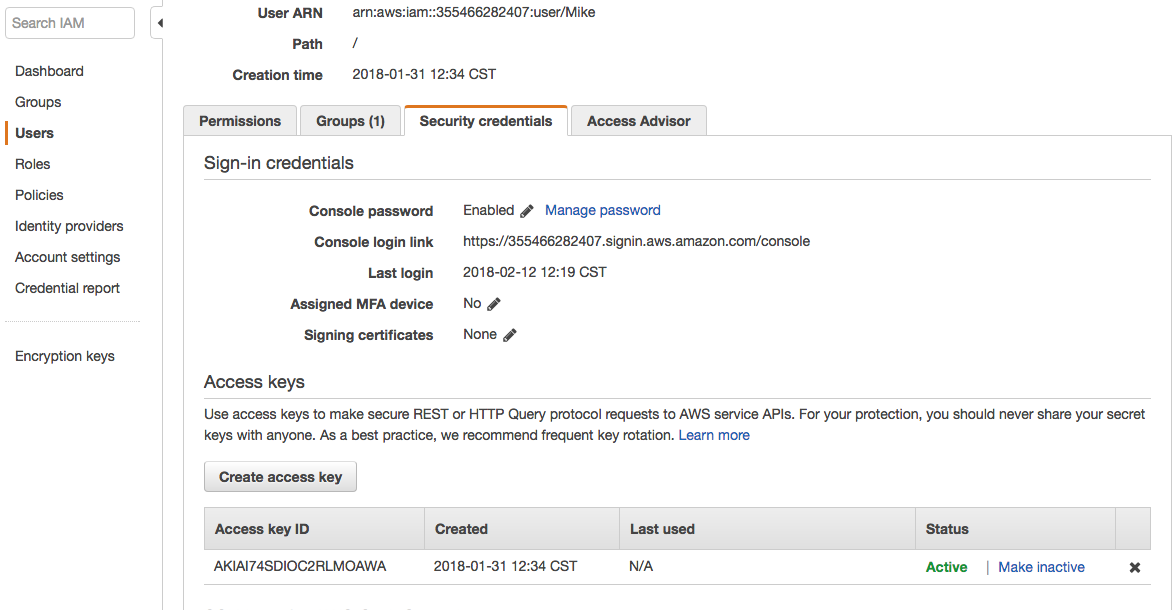
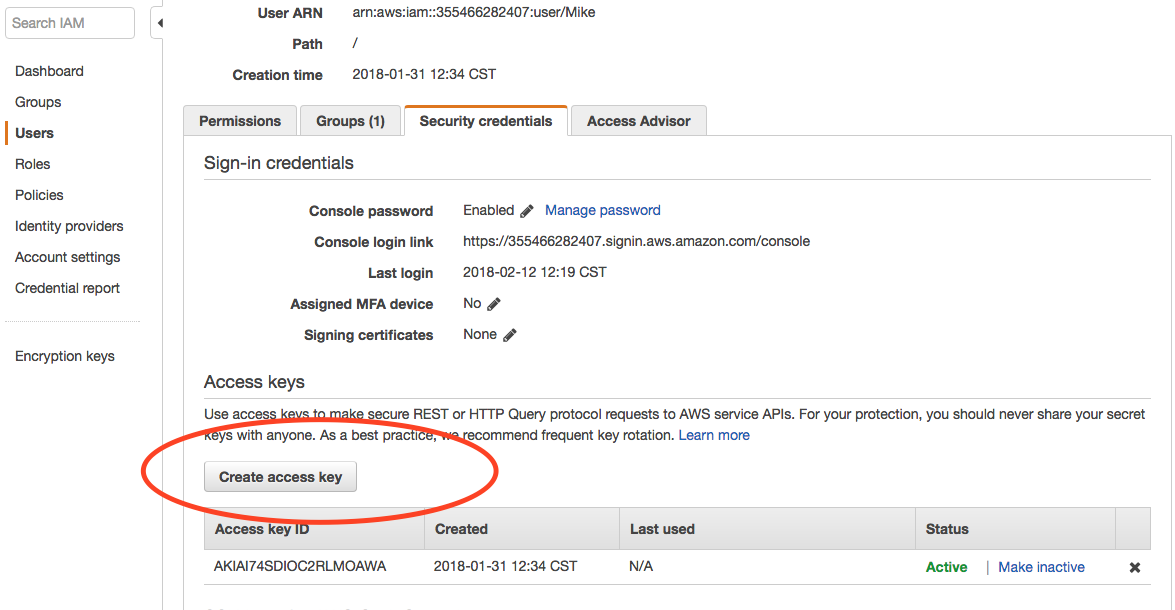
talks for week5-day3

diff --git a/studios/AWS3/README.md b/studios/AWS3/README.md
@@ -1,0 +1,347 @@
+---
+title: "Scaling horizontally AutoScaling Group"
+---
+
+The ability to scale horizontally is very important in building Cloud Native applications.  In this studio, you will be extending your [Airwaze App](https://gitlab.com/LaunchCodeTraining/airwaze-studio) to scale horizontally as traffic on the server increases.
+
+## Setup
+
+FIRST, change your project to run on port 80.  Add this line to your `applications.properties` file:
+```
+server.port=80
+```
+
+<aside class="aside-note">
+  Note!  You will be working in the "Northern Virginia region.
+</aside>
+
+We will be using the AWS CLI tool for some parts of the studio.  The AWS CLI tool allows you to create and change infrastructure on the cloud via the command line.  
+
+To install the AWS CLI tool run the following commands:
+```
+$ brew install awscli
+$ echo 'complete -C aws_completer aws' >> ~/.bashrc
+$ aws --version
+```
+
+Next configure the AWS CLI tool with your credentials.  These credentials can be found in IAM > Users > You. Click "Create Access Key".
+![Screenshot of IAM credentails](../../materials/week05/day3/iam_get_credentials.png)
+
+<aside class="aside-note">
+  It is very important that you keep the `AWS Secret Access Key` private.  Access to that key allows anyone to programmatically spin up infrastructure on the AWS account. 
+</aside>
+
+Next configure your the AWS CLI tool.  Use the "Default region name" or `us-east-1`:
+```
+$ aws configure
+AWS Access Key ID [None]: AK-------------------
+AWS Secret Access Key [None]: r4------------------
+Default region name [None]: us-east-2
+Default output format [None]: 
+```
+
+You should now be able to run commands against AWS.  For example, you should now be able to list all of the buckets in S3:
+```
+$ aws s3 ls
+```
+
+Take a look around by looking at the help pages for a couple of commands:
+```
+$ aws help
+$ aws s3 help
+$ aws s3 sync help
+```  
+
+The `aws help` command is a quick alternative to looking up information about the tool on line.
+
+### Configure your VPC
+
+You are going to use Amazon CloudFormation to spin up your VPC.  CloudFormation can create infrastructure on AWS based on a JSON template.  CloudFormation allows you to create consistent, reproducible AWS environments.
+
+You'll be using a CloudFormation template that adds 1 database, 4 subnets, 3 security groups, and 1 database.  AWS CloudFormation will pull the template from S3.  Feel free to take a look at the template by downloading it with the `aws-cli` tool:
+```
+aws s3 sync s3://launchcode-gisdevops-cloudformation 
+```
+
+To run CloudFormation, navigate to the CloudFormation page via the search bar.  Click "Create Stack".
+
+![Screenshot of CloudFormation page](../../materials/week05/day3/stack_screen.png)
+
+Now we tell CloudFormation what JSON template to use when building the infrastructure.  We're going to give it the URL of the JSON template that we looked at with the `aws s3 sync ...` command.
+
+* Choose "Specify an Amazon S3 template URL" and paste in https://s3.amazonaws.com/launchcode-gisdevops-cloudformation/airwaze_cloudformation.json. 
+* Click "Next" when you are done. 
+
+![Screenshot of CF Screen 1](../../materials/week05/day3/stack_screen_1.png)
+
+Next we need to give your stack a name and pass along a few parameters to customize the VPC.
+
+* Fill in Stack Name with "airwaze-{your name}".
+* Fill in DatabasePassword with "verysecurepassword".
+* Fill in KeyName with with the name of your access key.  Since you are in a new Region, you will need to create a new KeyPair.  Follow the [instructions from the AWS Studio](https://education.launchcode.org/gis-devops/studios/AWS/#setting-up-a-keypair)
+
+![Screenshot of Stack parameters](../../materials/week05/day3/stack_parameters.png)
+
+* Click Next on the "Options Screen"
+* Click Create on the "Review Screen"
+
+It will take CloudFormations about 15 minutes to spin up your VPC.  The "Events" tab will give you continuous updates on the progress of the job.
+
+### Configure Buckets
+
+Since you will be scaling machines horizontally, you won't be able to `scp` a jar to each machine.  Instead, the machines will reach out and grab a copy of the jar when they spin up.  The servers will download a copy of the application from S3.
+
+First create a new bucket in S3.  Remember **EVERY** bucket in S3 in the whole wide world has to be unique.  Use the pattern below to get a unique name.
+
+```
+$ aws s3 mb s3://launchcode-gisdevops-c1-yourname/
+```
+
+Run `aws s3 ls` to make sure that the bucket was created properly.
+
+Go ahead and build a new executable jar file using the Gradle `bootRepackage` command.  When it is finished building rename the file to `app.jar` and upload the jar to S3 using the following command:
+
+```
+$ aws s3 cp build/libs/app.jar s3://launchcode-gisdevops-c1-yourname/ 
+$ aws s3 ls s3://launchcode-gisdevops-c1-yourname/ # check to make sure it uploaded
+```
+
+When we run our initialization script later, the script will pull down the `app.jar` file with this command:
+```
+$ aws s3 sync s3://launchcode-gisdevops-c1-yourname/ /opt/airwaze
+```
+
+You should also check out S3 in the console:
+https://s3.console.aws.amazon.com/s3/home?region=us-east-1
+
+
+### Configure the database
+
+You'll also need to do some initial database setup.
+
+Create an instance in the `SubnetWebAppPublic` subnet.  Once it is up, SSH into the server and run the following commands:
+
+```
+$ sudo apt-get update
+$ sudo apt-get install postgresql
+$ psql -h airwaze-example.cew68jaqkoek.us-east-1.rds.amazonaws.com -p 5432 -U masterUser airwaze
+CREATE USER airwaze_user WITH PASSWORD 'verysecurepassword';
+CREATE EXTENSION postgis;
+CREATE EXTENSION postgis_topology;
+CREATE EXTENSION fuzzystrmatch;
+CREATE EXTENSION postgis_tiger_geocoder;
+CREATE TABLE airport
+(
+id serial primary key,
+airport_id integer,
+airport_lat_long geometry,
+altitude integer,
+city character varying(255),
+country character varying(255),
+faa_code character varying(255),
+icao character varying(255),
+name character varying(255),
+time_zone character varying(255)
+);
+CREATE TABLE route
+(
+id serial primary key,
+airline character varying(255),
+airline_id integer,
+dst character varying(255),
+dst_id integer,
+route_geom geometry,
+src character varying(255),
+src_id integer
+);
+ALTER TABLE airport OWNER to airwaze_user;
+ALTER TABLE route OWNER to airwaze_user;
+```
+
+Also, send up the `routes.csv` file and the `Airports.csv` file and get those in the database. 
+```
+$ scp -i ~/.ssh/mikes-keys.pem routes.csv  ubuntu@35.170.78.180:/home/ubuntu
+$ scp -i ~/.ssh/mikes-keys.pem Airports.csv  ubuntu@35.170.78.180:/home/ubuntu
+$ psql -h airwaze-example.cew68jaqkoek.us-east-1.rds.amazonaws.com -d airwaze -U airwaze_user -c "\copy route(src, src_id, dst, dst_id, airline, route_geom) from STDIN DELIMITER ',' CSV HEADER" < /home/ubuntu/routes.csv
+$ psql -h airwaze-example.cew68jaqkoek.us-east-1.rds.amazonaws.com -d airwaze -U airwaze_user -c "\copy airport(airport_id, name, city, country, faa_code, icao, altitude, time_zone, airport_lat_long) from STDIN DELIMITER ',' CSV HEADER" < /home/ubuntu/Airports.csv
+```
+
+## Create the Launch Configuration
+
+You now have all of the pieces set up to begin Auto Scaling EC2 machines.
+
+Navigate to [AutoScaling Page](https://console.aws.amazon.com/ec2/autoscaling/home) on the sidebar of EC2.  Click "Create Auto Scaling Group".
+
+![Screenshot of AutoScale Start](../../materials/week05/day3/create_auto_scaling_group.png) 
+
+A LaunchConfiguration is essentially creating a template for all of the EC2 instances that will be spun up automatically via Auto Scale.
+
+* You are going to create a new Launch Configuration.
+
+![Screenshot of AutoScale Step 1](../../materials/week05/day3/auto_scale_step_1.png)
+
+The Launch Configuration is going to be very similar to setting up a normal EC2 instance.  
+
+* Choose the Ubuntu distribution on the AMI screen.
+
+![Screenshot of Auto Scale AMI](../../materials/week05/day3/auto_scale_ami.png)
+
+* Choose the micro instance.
+
+![Screenshot of Auto Scale instance size](../../materials/week05/day3/auto_scale_instance_size.png)
+
+There are several important configurations that have to be made on the "Configure Details" screen.
+
+The moist important is the User data.  The "User data" is the script that runs as the server starts up.  This script creates the proper directories, configures systemd, and launches the app. Additionally, the app pulls down a copy of the jar file from S3. 
+
+There are two pieces of data to change in the "User data" script: 
+
+1) Set `APP_DB_HOST` to the endpoint of your RDS database. 
+
+2) Change the `aws s3 c s3://launchcode-gisdevops-c1-yourbucket/app.jar /opt/airwaze/app.jar` command to point to the bucket that you created earlier in the studio.
+
+* Paste your updated script in the "User data" field.
+
+* Set "IAM role" to "EC2_to_S3_readonly". When the machine is spinning up, the startup script will need to reach out to S3.  The "IAM role" gives the startup script the proper credentials to be authenticated to access S3.
+
+* Set the name of the configuration to `airwaze-{your name}-config`.
+
+* Change the "IP Address Type" to be `Assign a public IP address to every instance`.
+
+![Screenshot of Auto Scale configuration](../../materials/week05/day3/auto_scale_config.png)
+
+* Click "Next: Configure Security Group"
+
+* On the Security Group screen, choose the `WebAppSecurityGroup` from your VPC.  The key is that you want to have ports 22 and 80 open on the machines that you are running.
+
+* Click "Review"
+
+* Click "Create Launch configuration"
+
+```
+#!/bin/bash
+# Install Java
+apt-get update -y && apt-get install -y openjdk-8-jdk awscli
+
+# Create airwaze user
+useradd -M airwaze
+mkdir /opt/airwaze
+mkdir /etc/opt/airwaze
+aws s3 cp s3://launchcode-gisdevops-c1-traineemike/app.jar /opt/airwaze/app.jar 
+chown -R airwaze:airwaze /opt/airwaze /etc/opt/airwaze
+chmod 777 /opt/airwaze
+
+# Write Airwaze config file
+cat << EOF > /etc/opt/airwaze/airwaze.config
+APP_DB_HOST=airwaze-example.cew68jaqkoek.us-east-1.rds.amazonaws.com
+APP_DB_PORT=5432
+APP_DB_NAME=airwaze
+APP_DB_USER=airwaze_user
+APP_DB_PASS=verysecurepassword
+EOF
+
+# Write systemd unit file
+cat << EOF > /etc/systemd/system/airwaze.service
+[Unit]
+Description=Airwaze Studio
+After=syslog.target
+
+[Service]
+User=airwaze
+EnvironmentFile=/etc/opt/airwaze/airwaze.config
+ExecStart=/usr/bin/java -jar /opt/airwaze/app.jar SuccessExitStatus=143
+Restart=always
+
+[Install]
+WantedBy=multi-user.target
+EOF
+
+systemctl enable airwaze.service
+```
+
+
+![Screenshot of Auto Scale security groups](../../materials/week05/day3/auto_scale_security_groups.png)
+
+## Create the Auto Scale Group
+
+The Auto Scale Group is the piece of configuration responsible for how and when new machines are spun up (and spun down).
+
+The first step is configuring where the machines will be spun up.
+
+* For "Group name", provide a name similiar to `airwaze-{your name}` (replace {your name} of course...)
+
+* For "Network", choose your VPC.
+
+* For "Subnet", choose the `SubnetWebAppPublic`.
+
+* Click "Next: Configure Scaling Policy"
+
+![Screenshot of Auto Scale configuration](../../materials/week05/day3/auto_scale_group_1.png)
+
+The next screen configures how an app scales up.
+
+* Select `Use scaling policies to adjust the capacity of this group`.
+
+* Mark that the app can scale up to 5 machines.
+
+* Change the name to `Scale Fast!`.
+
+* Set the "Target value" to 5.  "Target value" is the percentage of CPU that triggers another machine to be provisioned.
+
+* Set the "Instances need" to 40 seconds.  Since Spring Boot packages the web server in the jar, your application doesn't need as much spin up time as other machines.
+
+* Click "Next: Configure Notifications"
+
+![Screenshot of Auto Scale configuration](../../materials/week05/day3/auto_scale_group_config.png)
+
+* Click "Next: Configure Tags"
+
+* Click "Review"
+
+* Click "Create Auto Scaling Group"
+
+This will create you Auto Scaling Group.  At first, the summary page will say 0 instances; it typically takes a couple of minutes to initialize.
+
+![Screenshot of Auto Scaling Group Dash](../../materials/week05/day3/auto_scaling_group_dash.png)
+
+The "Instances" tab will show you how many machines you currently have running in your Auto Scaling Group.
+
+![Screenshot of the Instances tab](../../materials/week05/day3/auto_scaling_instances_tab.png)
+
+Next you need to hook a load balancer up to your Auto Scaling Group.  We'll need to configure the Target Groups of the Elastic Load Balancer.
+
+* Navigate to the [Target Groups Page](https://console.aws.amazon.com/ec2/v2/home?&region=us-east-1#TargetGroups:sort=targetGroupName) and select the Target Group in your VPC.
+
+* Click "Edit"
+
+![Screenshot of Target Groups Edit](../../materials/week05/day3/target_groups_click_edit.png)
+
+* Select `WebAppTargets` from the "Target Groups" drop down.
+
+![Screenshot of Target Groups select target](../../materials/week05/day3/target_groups_set_target.png)
+
+## Placing Load on your App
+
+Next, you want to test that your autoscaling is working properly.  
+
+You are going to be using a Node library called [loadtest](https://www.npmjs.com/package/loadtest).  
+[loadtest](https://www.npmjs.com/package/loadtest) measures the average latency time of a concurrent requests to a server.  
+
+<aside class="aside-note">
+  Note: Tools like loadtest and Apache AB are like guns.  You don't point them live things unless you want to kill it.  It's fine to point a load test tool at your non production apps on AWS; in fact you need to make sure that it can handle load.  You would never want to point a load testing tool at a live site because:
+  * It's your live site (your staging environment should be similar enough to production to replicate the error).
+  * Your production site will be sitting behind one or more layers like a CDN.  Your load test is going to look a lot like a denial of service attack. Services like your CDN are designed to recognize and block attacks at the fringe of your network.  Running a load test against a live site is a good way to get your IP address blocked.
+</aside>
+
+To install [loadtest](https://www.npmjs.com/package/loadtest) install the following npm package globally (`-g`)
+```
+$ sudo npm install -g loadtest
+```
+
+Next, you can run a command to put load on the server. The following command runs 200 requests per second sending 10 concurrent results to the server at a time. 
+
+```
+loadtest -c 10 --rps 200 http://internal-airwa-WebAp-1CT34V4AX36U0-774969334.us-east-1.elb.amazonaws.com 
+```
+
+How many auto scaling servers does it take to accomodate a load of 200 requests per second?

diff --git a/studios/AWS/README.md b/studios/AWS/README.md
@@ -68,6 +68,8 @@ Configuring the security groups for your server is critical for protecting your 
 
 This screen gives you a final chance to review and change the settings you chose for this instance. Open the dropdowns on the screen and when you're ready, click "Launch".
 
+### Setting up a KeyPair
+
 This will open a popup on the screen that allows you to configure a key pair for the instance. This will generate the key necessary to SSH into the instance and without this you will not be able to access your instance. In an enterprise environment, there will likely already be multiple key pairs set up that you would use here. For the purpose of this project, create a new key pair:
   - Select "Create a new key pair" in the first select box
   - Give your key pair a good name, possibly the same name you gave your security group
